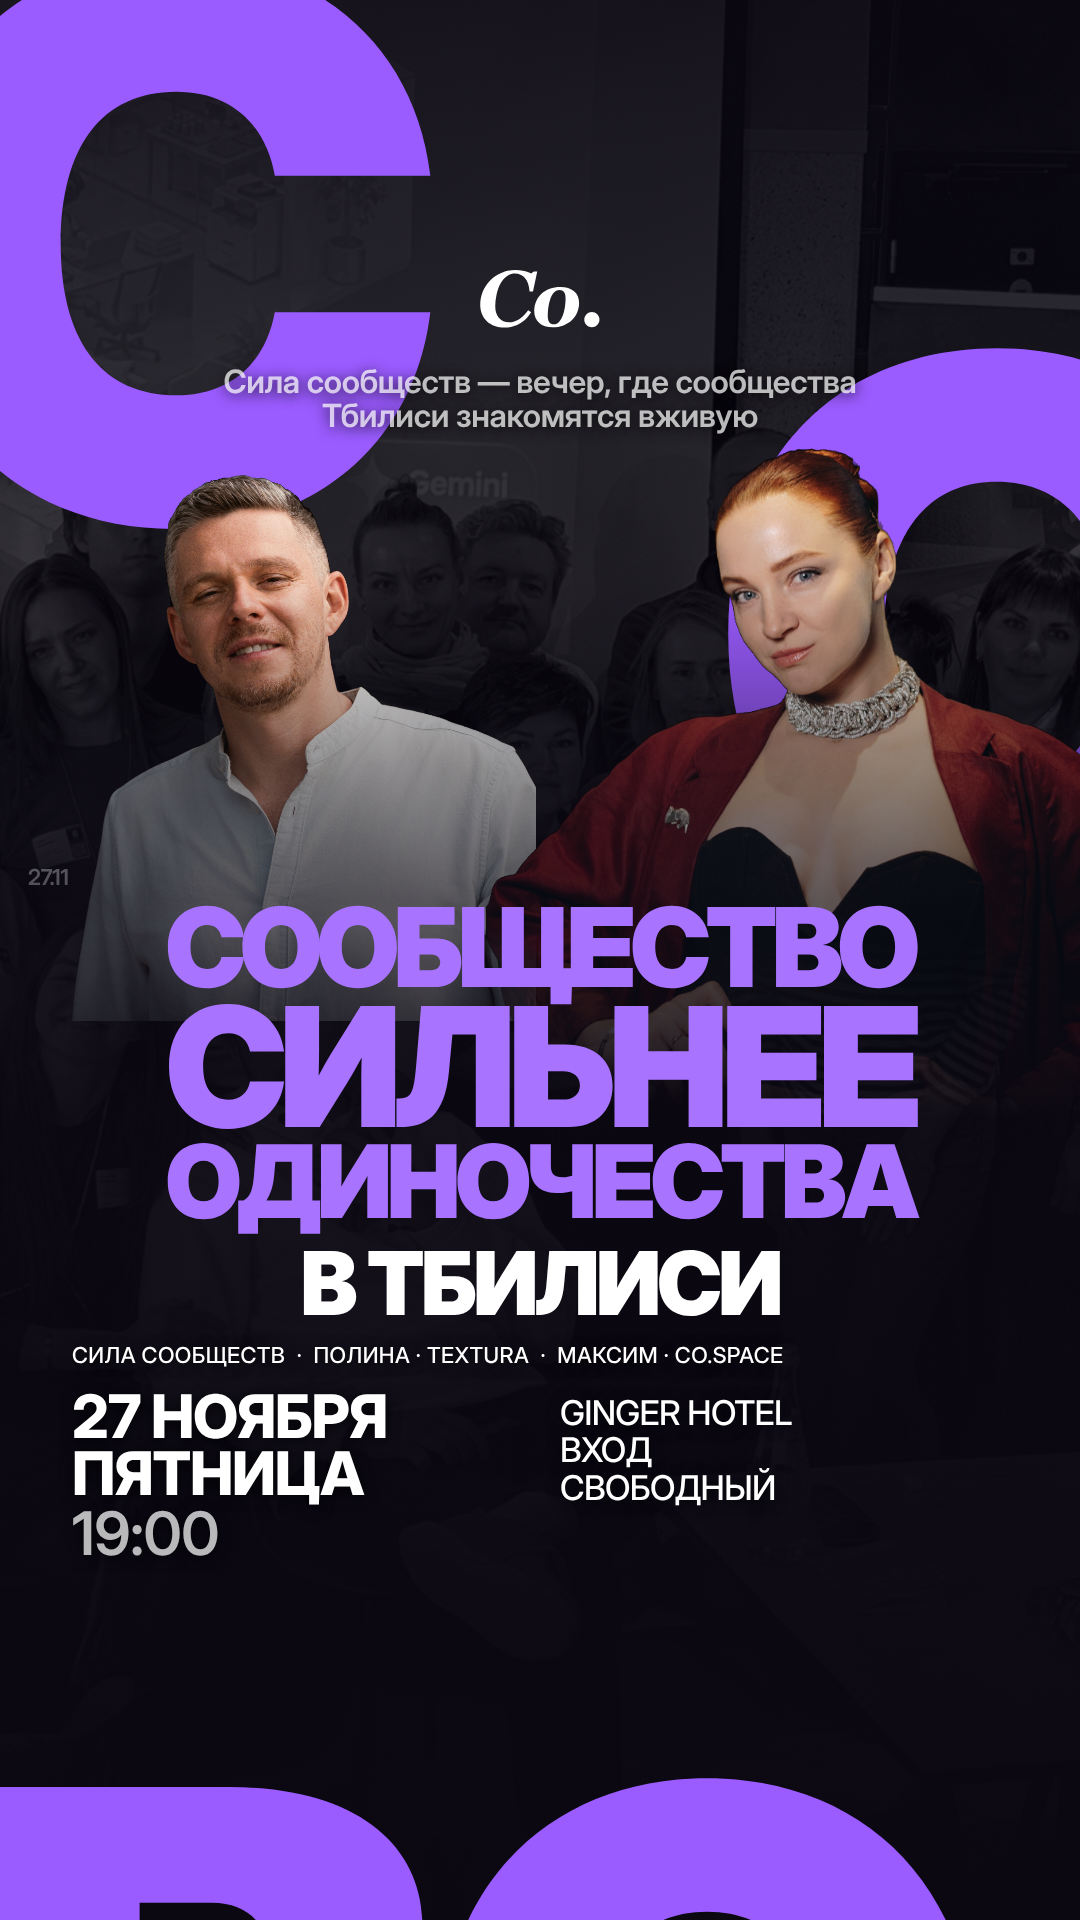
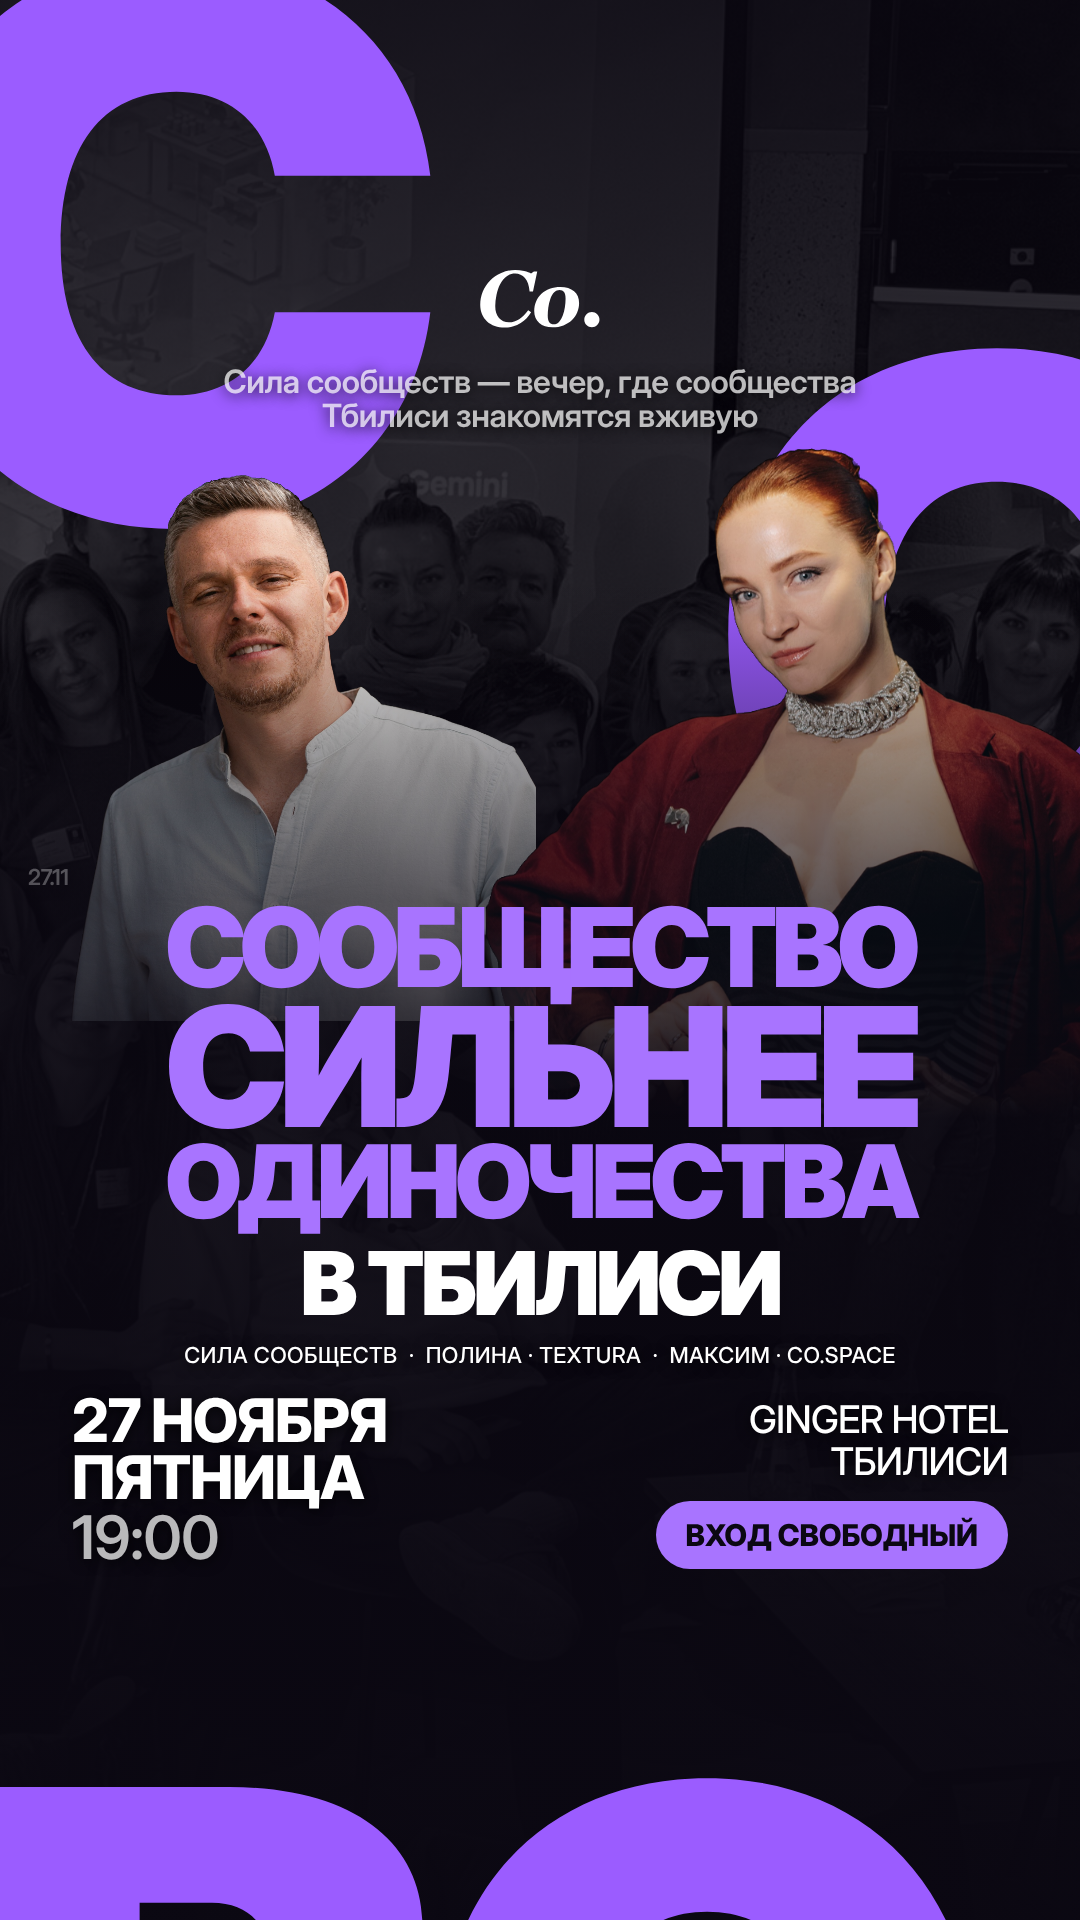
Фиолетовый: баланс нижнего блока, место справа, кнопка «Вход свободный»
Claude-Session: https://claude.ai/code/session_01EUhV7vaX3V2s8FuVCAhgM5

Changed region(s): [[0.3972, 0.6875, 0.9472, 0.8438], [0.0611, 0.6875, 0.3667, 0.8125]]

diff --git a/creatives/src/poster/edP-9x16.html b/creatives/src/poster/edP-9x16.html
@@ -21,9 +21,9 @@ body{background:#0B0812}
 </style></head><body><div class="bg"></div><div class="sh"></div><div class="L" style="left:-110px;top:-60px;font-size:760px">С</div><div class="L" style="right:-170px;top:330px;font-size:760px">О</div><div class="person" style="left:71px;top:475px;height:546px;-webkit-mask-image:linear-gradient(180deg,#000 83.3%,transparent 118.1%);"><img src="max_cut.png"></div><div class="person" style="left:486px;top:445px;height:910px;-webkit-mask-image:linear-gradient(180deg,#000 53.2%,transparent 74.1%);"><img src="polina_cut.png"></div><div class="L" style="z-index:2;left:-40px;top:1760px;font-size:760px">ВО</div><div class="abs t" style="left:0;right:0;top:365px;text-align:center;font-size:32px">Сила сообществ — вечер, где сообщества<br>Тбилиси знакомятся вживую</div><div class="abs t" style="left:28px;top:866px;font-size:22px">27.11</div><div class="dark" style="top:580px;background:linear-gradient(180deg,rgba(11,8,18,0),rgba(11,8,18,.35) 160px,rgba(11,8,18,.62) 320px,rgba(11,8,18,.72) 70%,rgba(11,8,18,.85))"></div><div class="flow" style="top:900px">
 <span class="fit">СООБЩЕСТВО</span><span class="fit">СИЛЬНЕЕ</span><span class="fit">ОДИНОЧЕСТВА</span>
 <div style="text-align:center;font-weight:900;font-size:88px;letter-spacing:-.04em;line-height:1;color:#fff;margin-top:14px">В ТБИЛИСИ</div>
-<div class="tb" style="font-weight:500;letter-spacing:.02em;font-size:22px;margin-top:18px">СИЛА СООБЩЕСТВ &nbsp;·&nbsp; ПОЛИНА · TEXTURA &nbsp;·&nbsp; МАКСИМ · CO.SPACE</div>
-<div style="display:flex;gap:40px;margin-top:22px"><div style="flex:1"><div class="tb" style="font-size:60px">27 НОЯБРЯ<br>ПЯТНИЦА</div><div class="t" style="font-size:60px">19:00</div></div>
-<div class="tb" style="font-weight:500;line-height:1.1;flex:1;font-size:34px;padding-top:6px">GINGER HOTEL<br>ВХОД<br>СВОБОДНЫЙ</div></div></div>
+<div class="tb" style="font-weight:500;letter-spacing:.02em;text-align:center;font-size:22px;margin-top:18px">СИЛА СООБЩЕСТВ &nbsp;·&nbsp; ПОЛИНА · TEXTURA &nbsp;·&nbsp; МАКСИМ · CO.SPACE</div>
+<div style="display:flex;justify-content:space-between;align-items:flex-end;margin-top:26px"><div><div class="tb" style="font-size:60px">27 НОЯБРЯ<br>ПЯТНИЦА</div><div class="t" style="font-size:60px">19:00</div></div>
+<div style="text-align:right"><div class="tb" style="font-weight:500;line-height:1.1;font-size:38px">GINGER HOTEL<br>ТБИЛИСИ</div><div style="display:inline-block;margin-top:18px;background:#A874FF;color:#0B0812;font-weight:800;border-radius:40px;padding:16px 30px;font-size:30px">ВХОД СВОБОДНЫЙ</div></div></div></div>
 <script>document.fonts.ready.then(()=>{const W=document.querySelector('.flow').clientWidth;document.querySelectorAll('.fit').forEach(e=>{e.style.fontSize='100px';e.style.display='inline-block';const w=e.getBoundingClientRect().width;e.style.fontSize=(100*W*.8/w)+'px';e.style.display='block'})})</script><div class="abs logo" style="left:50%;transform:translateX(-50%);top:270px"><svg width="120" height="59" viewBox="0 0 77 38" fill="none" xmlns="http://www.w3.org/2000/svg">
 <path d="M15.6912 37.0447C13.4308 37.0447 11.3353 36.7143 9.40484 36.0537C7.47438 35.3761 5.80789 34.4098 4.40543 33.1545C3.01945 31.8988 1.93872 30.371 1.16323 28.5701C0.387743 26.7532 0 24.7047 0 22.425C0 19.402 0.552742 16.5524 1.65822 13.8763C2.78021 11.2001 4.35593 8.81309 6.38539 6.71513C8.33235 4.69976 10.7083 3.08086 13.5133 1.85843C16.3347 0.619476 19.3294 0 22.4974 0C24.4114 0 26.35 0.231271 28.3134 0.693814C30.2771 1.15636 31.7455 1.69323 32.7189 2.30445L34.5753 0.941605H36.7283L33.9811 13.7772H31.8034C31.4733 10.0273 30.4751 7.17767 28.8084 5.22837C27.1585 3.26258 25.0301 2.27967 22.4231 2.27967C20.5092 2.27967 18.7437 2.8496 17.1267 3.98942C15.5098 5.12927 14.0743 6.88031 12.8203 9.24259C11.7973 11.1919 11.0136 13.455 10.4691 16.0321C9.9411 18.5925 9.67709 20.9961 9.67709 23.2428C9.67709 26.5468 10.4773 29.1154 12.0778 30.9491C13.6783 32.7828 15.8232 33.6994 18.5127 33.6994C20.8722 33.6994 23.0584 33.0387 25.0713 31.7171C27.0844 30.3957 29.023 28.4875 30.8875 25.9932L32.7933 27.2816C31.9848 28.5372 31.0196 29.776 29.8976 30.9985C28.7755 32.2044 27.4968 33.2536 26.0613 34.1455C24.5598 35.0871 23.0089 35.8056 21.4084 36.3014C19.8244 36.7969 17.9187 37.0447 15.6912 37.0447Z" fill="white"/>
 <path d="M63.6817 21.2605C63.6817 23.342 63.2858 25.3326 62.4936 27.2323C61.7017 29.132 60.5797 30.784 59.1278 32.188C57.5603 33.6914 55.7205 34.856 53.6085 35.6819C51.5131 36.4914 49.1536 36.8962 46.5303 36.8962C43.0159 36.8962 40.178 35.9628 38.0163 34.0962C35.8548 32.213 34.7741 29.6523 34.7741 26.4146C34.7741 24.2175 35.1783 22.1774 35.9869 20.2942C36.8119 18.411 37.9587 16.7673 39.4271 15.3631C40.8792 13.992 42.6611 12.91 44.7731 12.1171C46.8851 11.3076 49.1701 10.9029 51.6285 10.9029C55.3575 10.9029 58.2946 11.8197 60.4395 13.6534C62.6009 15.4705 63.6817 18.0062 63.6817 21.2605ZM54.9699 18.4605C54.9699 16.5277 54.6398 15.1071 53.9799 14.1985C53.3363 13.29 52.396 12.8357 51.1585 12.8357C49.8879 12.8357 48.7246 13.3478 47.6686 14.372C46.6129 15.3797 45.7547 16.8664 45.0947 18.8322C44.5172 20.4676 44.1048 22.2434 43.8573 24.1597C43.6098 26.0594 43.4862 27.7609 43.4862 29.2641C43.4862 31.263 43.816 32.7167 44.4761 33.6254C45.136 34.5172 46.0929 34.9633 47.3469 34.9633C48.6999 34.9633 49.8713 34.4099 50.8613 33.3032C51.8513 32.1964 52.6351 30.8335 53.2127 29.2146C53.7902 27.6287 54.2274 25.8777 54.5243 23.9615C54.8213 22.0287 54.9699 20.195 54.9699 18.4605Z" fill="white"/>

diff --git a/creatives/src/poster/edP-4x5.html b/creatives/src/poster/edP-4x5.html
@@ -21,9 +21,9 @@ body{background:#0B0812}
 </style></head><body><div class="bg"></div><div class="sh"></div><div class="L" style="left:-90px;top:-70px;font-size:560px">С</div><div class="L" style="right:-140px;top:150px;font-size:560px">О</div><div class="person" style="left:85px;top:254px;height:506px;-webkit-mask-image:linear-gradient(180deg,#000 82.2%,transparent 115.8%);"><img src="max_cut.png"></div><div class="person" style="left:508px;top:227px;height:844px;-webkit-mask-image:linear-gradient(180deg,#000 52.5%,transparent 72.7%);"><img src="polina_cut.png"></div><div class="L" style="z-index:2;left:-30px;top:1290px;font-size:560px">ВО</div><div class="abs t" style="left:0;right:0;top:150px;text-align:center;font-size:28px">Сила сообществ — вечер, где сообщества<br>Тбилиси знакомятся вживую</div><div class="abs t" style="left:28px;top:566px;font-size:22px">27.11</div><div class="dark" style="top:280px;background:linear-gradient(180deg,rgba(11,8,18,0),rgba(11,8,18,.35) 160px,rgba(11,8,18,.62) 320px,rgba(11,8,18,.72) 70%,rgba(11,8,18,.85))"></div><div class="flow" style="top:600px">
 <span class="fit">СООБЩЕСТВО</span><span class="fit">СИЛЬНЕЕ</span><span class="fit">ОДИНОЧЕСТВА</span>
 <div style="text-align:center;font-weight:900;font-size:72px;letter-spacing:-.04em;line-height:1;color:#fff;margin-top:14px">В ТБИЛИСИ</div>
-<div class="tb" style="font-weight:500;letter-spacing:.02em;font-size:20px;margin-top:18px">СИЛА СООБЩЕСТВ &nbsp;·&nbsp; ПОЛИНА · TEXTURA &nbsp;·&nbsp; МАКСИМ · CO.SPACE</div>
-<div style="display:flex;gap:40px;margin-top:22px"><div style="flex:1"><div class="tb" style="font-size:48px">27 НОЯБРЯ<br>ПЯТНИЦА</div><div class="t" style="font-size:48px">19:00</div></div>
-<div class="tb" style="font-weight:500;line-height:1.1;flex:1;font-size:28px;padding-top:6px">GINGER HOTEL<br>ВХОД<br>СВОБОДНЫЙ</div></div></div>
+<div class="tb" style="font-weight:500;letter-spacing:.02em;text-align:center;font-size:20px;margin-top:18px">СИЛА СООБЩЕСТВ &nbsp;·&nbsp; ПОЛИНА · TEXTURA &nbsp;·&nbsp; МАКСИМ · CO.SPACE</div>
+<div style="display:flex;justify-content:space-between;align-items:flex-end;margin-top:26px"><div><div class="tb" style="font-size:48px">27 НОЯБРЯ<br>ПЯТНИЦА</div><div class="t" style="font-size:48px">19:00</div></div>
+<div style="text-align:right"><div class="tb" style="font-weight:500;line-height:1.1;font-size:32px">GINGER HOTEL<br>ТБИЛИСИ</div><div style="display:inline-block;margin-top:14px;background:#A874FF;color:#0B0812;font-weight:800;border-radius:40px;padding:12px 24px;font-size:24px">ВХОД СВОБОДНЫЙ</div></div></div></div>
 <script>document.fonts.ready.then(()=>{const W=document.querySelector('.flow').clientWidth;document.querySelectorAll('.fit').forEach(e=>{e.style.fontSize='100px';e.style.display='inline-block';const w=e.getBoundingClientRect().width;e.style.fontSize=(100*W*.8/w)+'px';e.style.display='block'})})</script><div class="abs logo" style="left:50%;transform:translateX(-50%);top:60px"><svg width="120" height="59" viewBox="0 0 77 38" fill="none" xmlns="http://www.w3.org/2000/svg">
 <path d="M15.6912 37.0447C13.4308 37.0447 11.3353 36.7143 9.40484 36.0537C7.47438 35.3761 5.80789 34.4098 4.40543 33.1545C3.01945 31.8988 1.93872 30.371 1.16323 28.5701C0.387743 26.7532 0 24.7047 0 22.425C0 19.402 0.552742 16.5524 1.65822 13.8763C2.78021 11.2001 4.35593 8.81309 6.38539 6.71513C8.33235 4.69976 10.7083 3.08086 13.5133 1.85843C16.3347 0.619476 19.3294 0 22.4974 0C24.4114 0 26.35 0.231271 28.3134 0.693814C30.2771 1.15636 31.7455 1.69323 32.7189 2.30445L34.5753 0.941605H36.7283L33.9811 13.7772H31.8034C31.4733 10.0273 30.4751 7.17767 28.8084 5.22837C27.1585 3.26258 25.0301 2.27967 22.4231 2.27967C20.5092 2.27967 18.7437 2.8496 17.1267 3.98942C15.5098 5.12927 14.0743 6.88031 12.8203 9.24259C11.7973 11.1919 11.0136 13.455 10.4691 16.0321C9.9411 18.5925 9.67709 20.9961 9.67709 23.2428C9.67709 26.5468 10.4773 29.1154 12.0778 30.9491C13.6783 32.7828 15.8232 33.6994 18.5127 33.6994C20.8722 33.6994 23.0584 33.0387 25.0713 31.7171C27.0844 30.3957 29.023 28.4875 30.8875 25.9932L32.7933 27.2816C31.9848 28.5372 31.0196 29.776 29.8976 30.9985C28.7755 32.2044 27.4968 33.2536 26.0613 34.1455C24.5598 35.0871 23.0089 35.8056 21.4084 36.3014C19.8244 36.7969 17.9187 37.0447 15.6912 37.0447Z" fill="white"/>
 <path d="M63.6817 21.2605C63.6817 23.342 63.2858 25.3326 62.4936 27.2323C61.7017 29.132 60.5797 30.784 59.1278 32.188C57.5603 33.6914 55.7205 34.856 53.6085 35.6819C51.5131 36.4914 49.1536 36.8962 46.5303 36.8962C43.0159 36.8962 40.178 35.9628 38.0163 34.0962C35.8548 32.213 34.7741 29.6523 34.7741 26.4146C34.7741 24.2175 35.1783 22.1774 35.9869 20.2942C36.8119 18.411 37.9587 16.7673 39.4271 15.3631C40.8792 13.992 42.6611 12.91 44.7731 12.1171C46.8851 11.3076 49.1701 10.9029 51.6285 10.9029C55.3575 10.9029 58.2946 11.8197 60.4395 13.6534C62.6009 15.4705 63.6817 18.0062 63.6817 21.2605ZM54.9699 18.4605C54.9699 16.5277 54.6398 15.1071 53.9799 14.1985C53.3363 13.29 52.396 12.8357 51.1585 12.8357C49.8879 12.8357 48.7246 13.3478 47.6686 14.372C46.6129 15.3797 45.7547 16.8664 45.0947 18.8322C44.5172 20.4676 44.1048 22.2434 43.8573 24.1597C43.6098 26.0594 43.4862 27.7609 43.4862 29.2641C43.4862 31.263 43.816 32.7167 44.4761 33.6254C45.136 34.5172 46.0929 34.9633 47.3469 34.9633C48.6999 34.9633 49.8713 34.4099 50.8613 33.3032C51.8513 32.1964 52.6351 30.8335 53.2127 29.2146C53.7902 27.6287 54.2274 25.8777 54.5243 23.9615C54.8213 22.0287 54.9699 20.195 54.9699 18.4605Z" fill="white"/>

diff --git a/creatives/src/poster/build_editorial_purple.py b/creatives/src/poster/build_editorial_purple.py
@@ -78,9 +78,9 @@ def poster_purple(fmt):
     s.append(f'''<div class="flow" style="top:{ty}px">
 <span class="fit">СООБЩЕСТВО</span><span class="fit">СИЛЬНЕЕ</span><span class="fit">ОДИНОЧЕСТВА</span>
 <div style="text-align:center;font-weight:900;font-size:{cs}px;letter-spacing:-.04em;line-height:1;color:#fff;margin-top:14px">В ТБИЛИСИ</div>
-<div class="tb" style="font-weight:500;letter-spacing:.02em;font-size:{22 if story else 20}px;margin-top:18px">СИЛА СООБЩЕСТВ &nbsp;·&nbsp; ПОЛИНА · TEXTURA &nbsp;·&nbsp; МАКСИМ · CO.SPACE</div>
-<div style="display:flex;gap:40px;margin-top:22px"><div style="flex:1"><div class="tb" style="font-size:{ds}px">27 НОЯБРЯ<br>ПЯТНИЦА</div><div class="t" style="font-size:{ds}px">19:00</div></div>
-<div class="tb" style="font-weight:500;line-height:1.1;flex:1;font-size:{34 if story else 28}px;padding-top:6px">GINGER HOTEL<br>ВХОД<br>СВОБОДНЫЙ</div></div></div>
+<div class="tb" style="font-weight:500;letter-spacing:.02em;text-align:center;font-size:{22 if story else 20}px;margin-top:18px">СИЛА СООБЩЕСТВ &nbsp;·&nbsp; ПОЛИНА · TEXTURA &nbsp;·&nbsp; МАКСИМ · CO.SPACE</div>
+<div style="display:flex;justify-content:space-between;align-items:flex-end;margin-top:26px"><div><div class="tb" style="font-size:{ds}px">27 НОЯБРЯ<br>ПЯТНИЦА</div><div class="t" style="font-size:{ds}px">19:00</div></div>
+<div style="text-align:right"><div class="tb" style="font-weight:500;line-height:1.1;font-size:{38 if story else 32}px">GINGER HOTEL<br>ТБИЛИСИ</div><div style="display:inline-block;margin-top:{18 if story else 14}px;background:#A874FF;color:#0B0812;font-weight:800;border-radius:40px;padding:{16 if story else 12}px {30 if story else 24}px;font-size:{30 if story else 24}px">ВХОД СВОБОДНЫЙ</div></div></div></div>
 <script>document.fonts.ready.then(()=>{{const W=document.querySelector('.flow').clientWidth;document.querySelectorAll('.fit').forEach(e=>{{e.style.fontSize='100px';e.style.display='inline-block';const w=e.getBoundingClientRect().width;e.style.fontSize=(100*W*.8/w)+'px';e.style.display='block'}})}})</script>''')
     ly = 270 if story else 60
     s.append(f'<div class="abs logo" style="left:50%;transform:translateX(-50%);top:{ly}px">{LOGO.replace("width=\"77\"", "width=\"120\"").replace("height=\"38\"", "height=\"59\"")}</div>')
